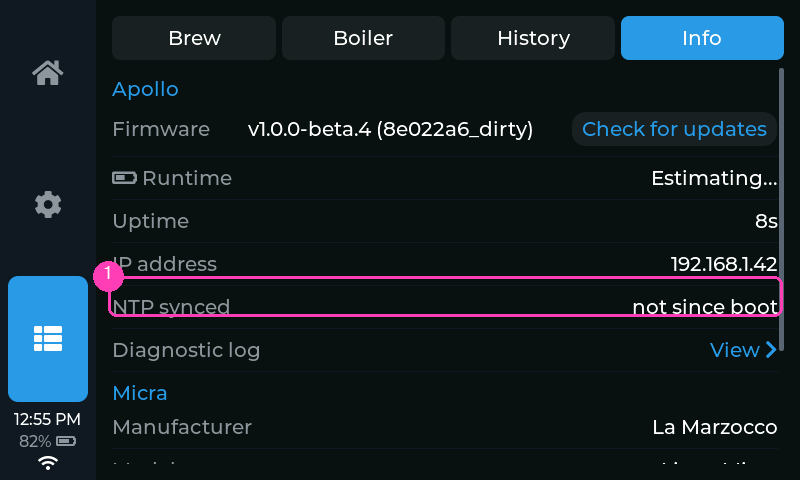
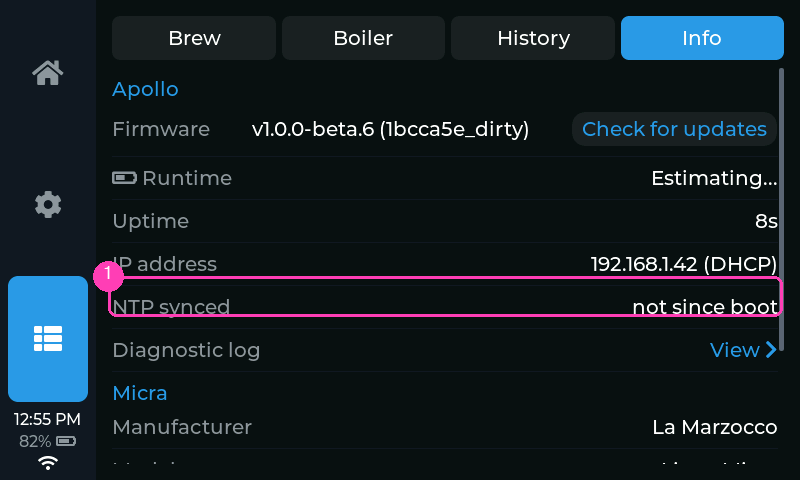
wifi: static IP address, set on the setup portal
The WiFi page of the setup portal gains a "Network address" select: automatic
(DHCP, the default) or static, which reveals IP address, subnet mask, gateway
and an optional DNS server (the gateway when blank). The page validates the
quads and the device validates again with IPAddress::fromString before saving
anything -- a bad set is refused whole. There is deliberately no on-device
editor (owner, 2026-09-30): change or clear it by running Set up WiFi again;
the page pre-fills the stored values so one field can be corrected without
retyping the rest.

Network::start_station applies WiFi.config() before begin(), or an all-zero
config() to fall back to DHCP -- needed when a static setup is switched off
within the same boot, since the WiFi library keeps the last config. New NVS
keys (adds only): ipstatic + ipaddr/ipmask/ipgw/ipdns, stored as typed; they
join the backup's WiFi opt-out group. INetwork gets static_ip() (default
false, so the sim fake needs nothing) and Stats > Info's IP row reads
"x.x.x.x (static)" / "(DHCP)". Manual, changelog and CLAUDE.md updated.

Changed region(s): [[0.3125, 0.25, 0.6875, 0.3125], [0.7188, 0.5312, 0.9688, 0.5625]]

diff --git a/src/platform_esp32/token_setup.cpp b/src/platform_esp32/token_setup.cpp
@@ -79,21 +79,55 @@ const char kWifiPage[] =
     // table), so the two stay one list.
     "<select id=tz name='tz' style='width:100%;padding:10px;box-sizing:border-box'>"
     "<option value=''>Time zone (optional &mdash; set later under Settings)</option>";
+// Network address: DHCP (the default) or a static address. Optional and
+// rarely needed, so it sits below the essentials and its fields only appear
+// once Static is picked. There is no on-device editor for these -- changing
+// them means running Set up WiFi again, which pre-fills what is stored
+// (handle_root splices the values in).
 const char kWifiPageAfterTz[] =
     "</select>"
+    "<select id=ipmode onchange='ipm()' style='width:100%;padding:10px;"
+    "box-sizing:border-box;margin-top:8px'>"
+    "<option value='dhcp'>Network address: automatic (DHCP)</option>"
+    "<option value='static'>Network address: static</option></select>"
+    "<div id=stat style='display:none;margin-top:8px'>"
+    "<input id=ip placeholder='IP address, e.g. 192.168.1.50' inputmode='decimal' "
+    "autocomplete='off' style='width:100%;padding:10px;box-sizing:border-box;margin-bottom:8px'>"
+    "<input id=mask placeholder='Subnet mask, e.g. 255.255.255.0' inputmode='decimal' "
+    "autocomplete='off' style='width:100%;padding:10px;box-sizing:border-box;margin-bottom:8px'>"
+    "<input id=gw placeholder='Gateway (router), e.g. 192.168.1.1' inputmode='decimal' "
+    "autocomplete='off' style='width:100%;padding:10px;box-sizing:border-box;margin-bottom:8px'>"
+    "<input id=dns placeholder='DNS server (optional; the gateway if blank)' "
+    "inputmode='decimal' autocomplete='off' "
+    "style='width:100%;padding:10px;box-sizing:border-box'>"
+    "</div>"
     "<p id=wmsg style='font-size:.9em'></p>"
     "<p><button style='padding:10px 24px;font-size:1em'>Save WiFi</button></p>"
     "</form>"
-    "<script>function submitWifi(){"
+    "<script>function ipm(){document.getElementById('stat').style.display="
+    "document.getElementById('ipmode').value=='static'?'block':'none';}"
+    "function q(v){return /^(25[0-5]|2[0-4]\\d|1?\\d?\\d)(\\.(25[0-5]|2[0-4]\\d|1?\\d?\\d)){3}$/"
+    ".test(v);}"
+    "function submitWifi(){"
     "var s=document.getElementById('ssid').value.trim();"
     "var p=document.getElementById('pass').value;"
     "var z=document.getElementById('tz').value;"
     "var m=document.getElementById('wmsg');"
     "if(!s){m.style.color='#c00';m.textContent='Enter a network name.';return false;}"
+    "var st=document.getElementById('ipmode').value=='static';"
+    "var ip=document.getElementById('ip').value.trim(),"
+    "mk=document.getElementById('mask').value.trim(),"
+    "gw=document.getElementById('gw').value.trim(),"
+    "dn=document.getElementById('dns').value.trim();"
+    "if(st&&!(q(ip)&&q(mk)&&q(gw)&&(!dn||q(dn)))){m.style.color='#c00';"
+    "m.textContent='Static address: fill IP, subnet mask and gateway as four numbers, "
+    "e.g. 192.168.1.50.';return false;}"
     "m.style.color='#888';m.textContent='Saving\\u2026';"
     "fetch('/wifi',{method:'POST',headers:{'Content-Type':"
     "'application/x-www-form-urlencoded'},body:'ssid='+encodeURIComponent(s)+"
-    "'&pass='+encodeURIComponent(p)+(z?'&tz='+encodeURIComponent(z):'')})"
+    "'&pass='+encodeURIComponent(p)+(z?'&tz='+encodeURIComponent(z):'')+"
+    "'&ipmode='+(st?'static':'dhcp')+(st?'&ip='+encodeURIComponent(ip)+'&mask='+"
+    "encodeURIComponent(mk)+'&gw='+encodeURIComponent(gw)+'&dns='+encodeURIComponent(dn):'')})"
     ".then(function(r){return r.text();})"
     ".then(function(t){m.style.color='#0a0';m.textContent=t;})"
     ".catch(function(){m.style.color='#c00';"
@@ -187,6 +221,23 @@ void TokenSetup::handle_root() {
       page += "</option>";
     }
     page += kWifiPageAfterTz;
+    // Pre-fill the address block from what is stored, so a revisit to change
+    // one field doesn't mean retyping the rest.
+    if (config_.static_ip()) {
+      page += "<script>document.getElementById('ipmode').value='static';ipm();";
+      const struct { const char* id; std::string val; } fields[] = {
+          {"ip", config_.static_ip_addr()}, {"mask", config_.static_ip_mask()},
+          {"gw", config_.static_ip_gateway()}, {"dns", config_.static_ip_dns()}};
+      for (const auto& f : fields) {
+        if (f.val.empty()) continue;
+        page += "document.getElementById('";
+        page += f.id;
+        page += "').value='";
+        page += f.val.c_str();  // a stored dotted quad: digits and dots only
+        page += "';";
+      }
+      page += "</script>";
+    }
   }
   page += kPageTail;
   server_->send(200, "text/html", page);
@@ -222,8 +273,28 @@ void TokenSetup::handle_wifi() {
     server_->send(200, "text/plain", "Enter a network name.");
     return;
   }
+  // Network address: DHCP unless the form said static with four parseable
+  // quads (the page validates too; this guards a hand-made POST). A bad static
+  // set is refused outright rather than half-saved.
+  const bool want_static = server_->arg("ipmode") == "static";
+  String ip = server_->arg("ip"), mask = server_->arg("mask"), gw = server_->arg("gw"),
+         dns = server_->arg("dns");
+  ip.trim(); mask.trim(); gw.trim(); dns.trim();
+  if (want_static) {
+    IPAddress a, m, g, d;
+    if (!a.fromString(ip) || !m.fromString(mask) || !g.fromString(gw) ||
+        (dns.length() > 0 && !d.fromString(dns))) {
+      server_->send(200, "text/plain",
+                    "Static address not saved: IP, subnet mask and gateway must each be "
+                    "four numbers like 192.168.1.50. Nothing was changed.");
+      return;
+    }
+  }
   config_.save_wifi(std::string(ssid.c_str()), std::string(pass.c_str()));
   config_.set_wifi_enabled(true);
+  config_.save_static_ip(want_static, want_static ? ip.c_str() : "", want_static ? mask.c_str() : "",
+                         want_static ? gw.c_str() : "", want_static ? dns.c_str() : "");
+  core::logf("TokenSetup: network address %s\n", want_static ? "static" : "DHCP");
   // Optional time zone from the same form. Only values from our own table are
   // accepted (the page offers nothing else; this guards a hand-made POST).
   const String tz = server_->arg("tz");

diff --git a/src/platform_esp32/config.cpp b/src/platform_esp32/config.cpp
@@ -82,6 +82,13 @@ constexpr char kStandbyTimerKey[] = "schasbt";  // Home MICRA card auto-standby 
 constexpr char kWifiEnKey[] = "wifi_en";
 constexpr char kWifiSsidKey[] = "ssid";
 constexpr char kWifiPassKey[] = "wifipass";
+// Static IP (v1.0.0-beta.7, ADDs): mode + the four dotted quads as typed on
+// the portal. Travel with the WiFi group in a settings backup.
+constexpr char kIpStaticKey[] = "ipstatic";
+constexpr char kIpAddrKey[] = "ipaddr";
+constexpr char kIpMaskKey[] = "ipmask";
+constexpr char kIpGwKey[] = "ipgw";
+constexpr char kIpDnsKey[] = "ipdns";
 constexpr char kTzKey[] = "tz";
 constexpr char kNtpKey[] = "ntp";
 constexpr char kNtpEnKey[] = "ntp_en";
@@ -758,6 +765,31 @@ void Config::clear_wifi() {
   p.begin(kNamespace, /*readOnly=*/false);
   p.remove(kWifiSsidKey);
   p.remove(kWifiPassKey);
+  p.end();
+}
+
+bool Config::static_ip() const {
+  Preferences p;
+  if (!p.begin(kNamespace, /*readOnly=*/true)) return false;
+  const bool v = p.isKey(kIpStaticKey) ? p.getBool(kIpStaticKey, false) : false;
+  p.end();
+  return v;
+}
+
+std::string Config::static_ip_addr() const { return read_key(kIpAddrKey); }
+std::string Config::static_ip_mask() const { return read_key(kIpMaskKey); }
+std::string Config::static_ip_gateway() const { return read_key(kIpGwKey); }
+std::string Config::static_ip_dns() const { return read_key(kIpDnsKey); }
+
+void Config::save_static_ip(bool on, const std::string& addr, const std::string& mask,
+                            const std::string& gateway, const std::string& dns) {
+  Preferences p;
+  p.begin(kNamespace, /*readOnly=*/false);
+  p.putBool(kIpStaticKey, on);
+  p.putString(kIpAddrKey, addr.c_str());
+  p.putString(kIpMaskKey, mask.c_str());
+  p.putString(kIpGwKey, gateway.c_str());
+  p.putString(kIpDnsKey, dns.c_str());
   p.end();
 }
 

diff --git a/src/platform_esp32/network.cpp b/src/platform_esp32/network.cpp
@@ -64,6 +64,22 @@ void Network::start_station() {
                  heap_caps_get_largest_free_block(MALLOC_CAP_INTERNAL)));
   WiFi.mode(WIFI_STA);
   WiFi.setTxPower(kTxPower);
+  // Static address, if the portal set one. All-zero config() = back to DHCP,
+  // which matters when a static setup is switched off within the same boot
+  // (the WiFi library keeps the last config otherwise).
+  IPAddress ip, mask, gw, dns;
+  if (config_.static_ip() && ip.fromString(config_.static_ip_addr().c_str()) &&
+      mask.fromString(config_.static_ip_mask().c_str()) &&
+      gw.fromString(config_.static_ip_gateway().c_str())) {
+    const std::string dns_s = config_.static_ip_dns();
+    if (dns_s.empty() || !dns.fromString(dns_s.c_str())) dns = gw;
+    WiFi.config(ip, gw, mask, dns);
+    core::logf("Network: static IP %s mask %s gw %s dns %s\n", ip.toString().c_str(),
+               mask.toString().c_str(), gw.toString().c_str(), dns.toString().c_str());
+  } else {
+    if (config_.static_ip()) core::logf("Network: static IP fields invalid; using DHCP\n");
+    WiFi.config(IPAddress(), IPAddress(), IPAddress());  // DHCP
+  }
   WiFi.begin(ssid.c_str(), pass.c_str());
   // Disable WiFi modem sleep (the Arduino default is WIFI_PS_MIN_MODEM). On the
   // native-WiFi S3 the station otherwise sleeps between DTIM beacons and drops
@@ -195,6 +211,8 @@ const char* Network::ssid() const {
 }
 
 bool Network::enabled() const { return config_.wifi_enabled(); }
+
+bool Network::static_ip() const { return config_.static_ip(); }
 
 void Network::set_enabled(bool on) {
   config_.set_wifi_enabled(on);

diff --git a/src/ui/app.cpp b/src/ui/app.cpp
@@ -4127,11 +4127,12 @@ void App::update_stats_view() {
     else
       std::snprintf(up, sizeof(up), "%us", static_cast<unsigned>(up_s));
 
-    // IP only means anything while the station is actually connected.
-    const char* ip = (network_ != nullptr &&
-                      network_->status() == core::NetState::Connected)
-                         ? network_->ip()
-                         : "";
+    // IP only means anything while the station is actually connected; say how
+    // it was assigned, since a static one is set (and changed) on the portal.
+    char ip[48] = "";
+    if (network_ != nullptr && network_->status() == core::NetState::Connected)
+      std::snprintf(ip, sizeof(ip), "%s (%s)", network_->ip(),
+                    network_->static_ip() ? "static" : "DHCP");
     // NTP: honest "last real sync" (the RTC-provided boot time doesn't count).
     char ntp[24];
     const int nsec = (network_ != nullptr) ? network_->ntp_seconds_since_sync() : -1;

diff --git a/include/platform_esp32/config.h b/include/platform_esp32/config.h
@@ -128,6 +128,15 @@ class Config {
   std::string wifi_password() const;  // saved PSK (plaintext in NVS), or ""
   void save_wifi(const std::string& ssid, const std::string& password);
   void clear_wifi();          // forget the saved network (incl. password)
+  // Static address (portal option; default DHCP). Dotted quads as typed;
+  // Network validates again before applying. dns "" = use the gateway.
+  bool static_ip() const;
+  std::string static_ip_addr() const;
+  std::string static_ip_mask() const;
+  std::string static_ip_gateway() const;
+  std::string static_ip_dns() const;
+  void save_static_ip(bool on, const std::string& addr, const std::string& mask,
+                      const std::string& gateway, const std::string& dns);
   std::string timezone() const;    // POSIX TZ string (default "UTC0")
   void set_timezone(const std::string& tz);
   std::string ntp_server() const;  // NTP host (default "pool.ntp.org")

diff --git a/src/platform_esp32/config_backup.cpp b/src/platform_esp32/config_backup.cpp
@@ -41,8 +41,11 @@ bool is_unit_key(const char* k) {
 // (Network::begin joins on ssid non-empty, and an empty PSK is a valid open-
 // network attempt that can never succeed), so the enable flag goes too.
 bool is_wifi_key(const char* k) {
-  return std::strcmp(k, "ssid") == 0 || std::strcmp(k, "wifipass") == 0 ||
-         std::strcmp(k, "wifi_en") == 0;
+  static const char* kNet[] = {"ssid", "wifipass", "wifi_en",
+                               "ipstatic", "ipaddr", "ipmask", "ipgw", "ipdns"};
+  for (const char* n : kNet)
+    if (std::strcmp(k, n) == 0) return true;
+  return false;
 }
 
 // Only the token itself. The saved MAC and name identify the machine, they

diff --git a/include/core/network.h b/include/core/network.h
@@ -21,7 +21,10 @@ class INetwork {
 
   virtual NetState status() const = 0;
   virtual const char* ssid() const = 0;  // configured SSID ("" if none)
-  virtual const char* ip() const = 0;    // DHCP address when Connected, else ""
+  virtual const char* ip() const = 0;    // address when Connected, else ""
+  // True when the saved network uses a static address (set on the setup
+  // portal) rather than DHCP. Display only — the Info page's IP row.
+  virtual bool static_ip() const { return false; }
 
   // Master on/off. Disabling drops the station; enabling (re)connects from the
   // saved credentials. Persisted.

diff --git a/include/platform_esp32/network.h b/include/platform_esp32/network.h
@@ -41,6 +41,7 @@ class Network : public core::INetwork {
   core::NetState status() const override { return status_; }
   const char* ssid() const override;
   const char* ip() const override { return ip_.c_str(); }
+  bool static_ip() const override;
 
   bool enabled() const override;
   void set_enabled(bool on) override;

diff --git a/MANUAL.md b/MANUAL.md
@@ -61,7 +61,8 @@ Settings
 │  ├─ Display     — Brightness* · Screen timeout · Idle screen (Lion/Apollo/Alternate/Dim/Off)
 │  │               · Theme · Fahrenheit · Button sounds* · Performance overlay
 │  ├─ Time & date — Time · Date · 24-hour · Timezone
-│  ├─ WiFi        — Enable · Status · Set up WiFi → QR portal · Forget
+│  ├─ WiFi        — Enable · Status · Set up WiFi → QR portal (network, time zone,
+│  │                 DHCP / static address) · Forget
 │  │               · Auto time (NTP) · Check for updates (Off/Boot/Daily/Hourly)
 │  │                 → notice → Install now · Beta updates
 │  └─ Backup      — On the card · Back up to card · Restore from card
@@ -71,7 +72,7 @@ Stats
 ├─ Brew | Boiler — temperature history graphs (+/− zoom)
 ├─ History — headline stats (tap → reset) · month filter · shot list
 │            └─ tap a shot → full-screen shot card (with delete)
-└─ Info — firmware (→ Check for updates) · uptime · IP · NTP synced · Diagnostic log
+└─ Info — firmware (→ Check for updates) · uptime · IP (DHCP/static) · NTP synced · Diagnostic log
           (tap → viewer) · Micra details
 
   * = only on boards whose hardware supports it (see the note above)
@@ -597,6 +598,16 @@ page fits on screen with little to no scrolling.
 
   <img src="docs/img/manual/join-modal.png" width="70%" alt="The QR join modal">
 
+  The page's last control is **Network address**: *automatic (DHCP)*, the
+  default, or *static*. Static reveals four fields — IP address, subnet mask
+  (255.255.255.0 on most home networks), gateway (your router), and an
+  optional DNS server (the gateway when blank). A static address is handy if
+  you bookmark the device's web page or reserve addresses on your router.
+  There is no on‑device editor for these: to change or clear them, run
+  **Set up WiFi** again — the page comes up pre‑filled with what is stored,
+  and switching back to *automatic* is one tap. **Stats → Info** shows the
+  current address with *(static)* or *(DHCP)* after it.
+
 - ③ **Forget** — clears the saved network.
 - ④ **Auto time (NTP)** *(default on)* — sync the clock over WiFi while
   connected. (The timezone it applies is set under **Time & date**.)
@@ -774,7 +785,8 @@ action lives directly on the root:
 ![Device info](docs/img/manual/stats-info.png)
 
 - **Info** — device details: our firmware version + git revision, uptime,
-  battery/USB state with a runtime estimate, **NTP synced** (how long ago the
+  battery/USB state with a runtime estimate, the **IP address** with how it
+  was assigned — *(DHCP)* or *(static)*, see [WiFi](#wifi) —, **NTP synced** (how long ago the
   clock last synced over the internet, or "not since boot"), and the machine's
   Device Information (manufacturer, model, serial, firmware) read over Bluetooth.
   - **Check for updates** — next to the firmware version, tap it to check the

diff --git a/CLAUDE.md b/CLAUDE.md
@@ -41,6 +41,19 @@ together, and re-prove a rev v3 P4 from Chrome before deploying. A site-only
 hot deploy = build, then commit index.html + vendor/ on gh-pages (the OWNER
 pushes it; the assistant's push is refused as a CI-gate bypass).
 
+## Static IP (v1.0.0-beta.7)
+
+Set ONLY on the WiFi setup portal (TokenSetup's WiFi page: a "Network
+address" select, DHCP default; Static reveals ip/mask/gw/dns, validated by
+the page's regex AND by IPAddress::fromString in handle_wifi — a bad set is
+refused, nothing half-saved). No on-device editor by design (owner): change
+it by re-running Set up WiFi; handle_root pre-fills the stored values.
+Network::start_station applies WiFi.config() before begin(), or an all-zero
+config() to return to DHCP within the same boot. NVS keys (ADDs) `ipstatic`
+(bool) + `ipaddr`/`ipmask`/`ipgw`/`ipdns` (strings, as typed); they travel in
+the backup's WiFi opt-out group. INetwork::static_ip() (default false) feeds
+the Info row "x.x.x.x (static|DHCP)".
+
 ## OTA self-update (v0.11+)
 
 Two separate parts: a CHECK/notify port (`update_check.*`) and an INSTALL that
@@ -156,8 +169,9 @@ is on — swap hardware and every shot survives while every preference is lost.
 - PER-UNIT KEYS never leave the board and survive the erase: `padsense`,
   `paddrive` (repair knobs for a damaged pad), `otainst` (install boot flag),
   `lastunix` (clock seed), `_init`.
-- The two credentials — `wifipass` (with `ssid`/`wifi_en`: an SSID with no PSK
-  is a join that can never succeed) and `token` — are OPT-OUT switches in the
+- The two credentials — `wifipass` (with `ssid`/`wifi_en`, and since beta.7
+  the static-address keys `ipstatic`/`ipaddr`/`ipmask`/`ipgw`/`ipdns`: an
+  SSID with no PSK is a join that can never succeed) and `token` — are OPT-OUT switches in the
   confirm modal, because the file is plain text on a card that leaves the
   machine. `mac`/`name` always travel: they identify the machine, not open it.
 - A backup written by NEWER firmware is refused (`core::semver_newer`, shared

diff --git a/CHANGELOG.md b/CHANGELOG.md
@@ -35,6 +35,10 @@ maps — plain ASCII plus `— – → … × ' "` — or they render as empty b
 - **Scale battery as icon, percent or both.** Settings → Scale → Device
   settings → Battery display picks how the SCALE card shows the scale's
   battery.
+- **Static IP address.** The WiFi setup page offers a network address
+  choice: automatic (DHCP) as before, or static with IP, subnet mask, gateway
+  and optional DNS. Stats → Info shows which one is in use. Change it by
+  running Set up WiFi again; the page pre-fills what is stored.
 - **Scheduled turn-on after a lost connection.** If the Micra's Bluetooth
   link dropped overnight, the device used to wait for a touch before
   reconnecting, so a morning turn-on could find it disconnected and be
